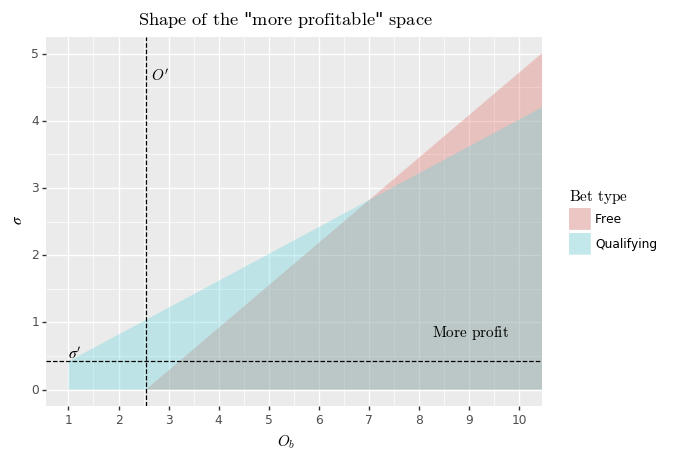
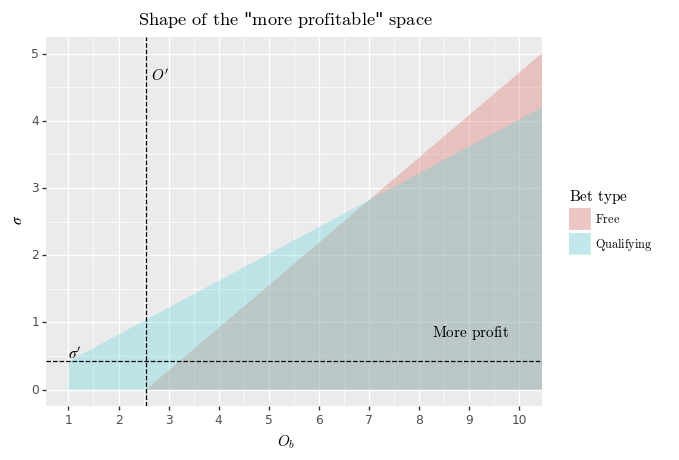
editing

diff --git a/images/matched-betting/plots.py b/images/matched-betting/plots.py
@@ -226,12 +226,14 @@ def main():
         + gg.geom_area(gg.aes(fill='profit'), alpha=0.3)
         + gg.geom_vline(xintercept=Opr, linetype='dashed')
         + gg.geom_hline(yintercept=σpr, linetype='dashed')
+
         # text alignment can't be specified in an aes
         + gg.geom_text(lab_aes, data=labels.ix[:0], ha='left', va='top')
         + gg.geom_text(lab_aes, data=labels.ix[1:1], ha='left', va='bottom')
         + gg.geom_text(lab_aes, data=labels.ix[2:], ha='right', va='bottom')
+
         + gg.scale_fill_discrete(name=mathrm('Bet type'),
-                                 labels=['Free', 'Qualifying'])
+                                 labels=[mathrm('Free'), mathrm('Qualifying')])
         + limits((1, 10), (0, 5))
         + gg.ggtitle('%s "%s" %s' % (mathrm('Shape of the'),
                                      mathrm('more profitable'),

diff --git a/drafts/matched-betting.md b/drafts/matched-betting.md
@@ -10,13 +10,13 @@ This post isn't advice about how to get into matched betting. That market is pro
 
 Instead, I want to go into the math behind it, in more depth than I've seen in other places. None of this math is complicated, but some of it is useful, and I haven't seen anyone do it before. (I even deliberately went looking.)
 
-**A simple example**
+### A simple example
 
 (If you've seen one example of matched betting, you've seen them all, and you can skip this particular one.)
 
 You have a $£10$ free bet at a bookmaker. You find a football game, say Manchester Utd versus Liverpool, that you want to bet on. The bookmaker offers odds of $4$ on Liverpool, and you bet your $£10$ on them.
 
-A note on odds: the usual convention in gambling seems to be to use decimal odds. Odds of $x$ mean that your potential winnings are $x-1$ times your stake. Thus, odds of $4$ mean a bet of $£10$ has the potential to pay out $£30$. If you're used to odds notated $a:b$ or (equivalently) $a/b$, then the decimal odds are given by $a/b + 1$.
+(A note on odds: the usual convention in gambling seems to be to use decimal odds. Odds of $x$ mean that your potential winnings are $x-1$ times your stake. Thus, odds of $4$ mean a bet of $£10$ has the potential to pay out $£30$. If you're used to odds notated $a:b$ or (equivalently) $a/b$, then the decimal odds are given by $a/b + 1$.)
 
 So if Liverpool wins, you'll earn $£30$; if they lose or draw, you lose nothing. You then look up the same match at a betting exchange. An exchange allows you to take both sides of a bet, which a bookmaker won't. The exchange offers odds of $4.3$ to lay Liverpool; this means that you win your bet in the exchange only if Liverpool *doesn't* win. You accept a stake of $£6.98$, which means your own stake is $£23.03$.
 
@@ -28,11 +28,11 @@ Before bookmakers will give you a free bet, you'll usually have to place a bet w
 
 This has been a very brief introduction to matched betting. Now, into the math. I'm going to be focusing on two kinds of bet: qualifying bets, which are usually known as just bets, and free bets, where you don't lose anything if your back bet loses. I'm also going to ignore rounding; let's just pretend that the sterling is infinitely divisible.
 
-**Some definitions**
+### Some definitions
 
 We can think of a paired bet as having six parameters, $(O_b, O_l, S_b, S_l, C_b, C_l)$. These are three parameters for each of a pair of back and lay bets.
 
-$O_b, O_l$ are the odds on the back and lay bets. It's typically safe to assume $O_b < O_l$; otherwise, modulo commission, you could make a profit even on your qualifying bets. Also, because we're using decimal odds, we have $O_b, O_l ≥ 1$ (anything less than $1$ corresponds to a probability below $0$.)
+$O_b, O_l$ are the odds on the back and lay bets. It's typically safe to assume $O_b < O_l$; otherwise, modulo commission, you could make a profit even on your qualifying bets. Also, because we're using decimal odds, we have $O_b, O_l ≥ 1$ (anything less than $1$ corresponds to a probability below $0$).
 
 $S_b, S_l ≥ 0$ are the stakes on the back and lay bets. Note that $S_l$ is the stake offered by the *other party* to your lay bet; it's (roughly) the amount you stand to win on that bet, not the amount you stand to lose. This may seem strange, but it's the convention used.
 
@@ -59,7 +59,7 @@ And now we can say that a matched bet is simply a paired bet, where your profit 
 
 Incidentally, the six prameters are over-determined. Most commonly we want to learn $S_l$ given the other five; but knowing any five of them will fix the value of the sixth.
 
-**Optimal lay stake**
+### Optimal lay stake
 
 The first question we'll ask is, given $O_\*$, $C_\*$ and $S_b$, what must $S_l$ be to make our bet a matched bet? Or in other words, what $S_l$ should we choose to eliminate all risk?
 
@@ -81,7 +81,7 @@ and for a free bet,
 
 A thing to note here is that $O_l$ and $C_l$ only appear in the term $O_l - C_l$. In other words, the effect of lay commission is to decrease the effective lay odds in the most natural way. It would be nice if this happened in other contexts too, but unfortunately I haven't come across it. The $O_l - C_l$ term is common, but it's usually accompanied by another $O_l$ and/or $C_l$ somewhere else in the expression.
 
-**Profit**
+### Profit
 
 Next, we'll want to know how much profit we make. This is given by $R_{lb} + R_{ll}$, where we calculate $R_{ll}$ using the lay stake we just found. But since both of these terms are proportional to $S_b$, we'll find it more convenient to think in terms of profit *per unit of back stake*,
 
@@ -122,7 +122,7 @@ We can also look at $P_f - P_q$, the difference in profit between a qualifying b
 
 The more $O_l$ grows, the worse a qualifier becomes relative to a free bet. This is another suggestion that you should be looking at different sorts of bets for your qualifiers and your free bets.
 
-**Liability**
+### Liability
 
 One more thing is important when making a matched bet: lay liability. This is how much you stand to lose on the exchange where you make your lay bet. It's only important for boring real-world reasons like liquidity and exogenous risk. You need to have this much money in your account at the exchange, which means you need to be able to spare it from your bank account for a week or so. Low-liability bets are also safer if something goes wrong, which makes them a good choice for early dabblers in matched betting.
 
@@ -138,7 +138,7 @@ for a free bet.
 
 Unlike profit, liability increases with both $O_b$ and $O_l$. But it increases arbitrarily with $O_b$, and asymtotically with $O_l$; it's bounded above by roughly $S_b O_b$ for a qualifying bet and $S_b (O_b - 1)$ for a free bet.
 
-**Improving on a free bet**
+### Improving on a free bet
 
 Matched bet calculators aren't hard to find, and what I've given so far is nothing that they can't do for you. But they don't tell you everything you might want to know. Let's look at a bet, and see how we might find a better bet. Since the two types have different behaviours, we'll treat them separately.
 
@@ -206,7 +206,7 @@ These two equations can be used to find $O_b$ in terms of $O_l$ or $σ$, and vic
 
 Looking more closely at the second one, notice that $C^+$ is the upper bound on profit. So the term $C^+ - P_f$ can be thought of as how much profit is being left on the table, compared to what you could hypothetically get if odds of $∞$ were a thing. The less profit you leave behind, the less $σ$ has to change to compensate for a given change in $O_b$. In other words, when profit is high, the level curve on the graph of $P_f(O_b, σ)$ becomes shallower, as we saw above.
 
-**Improving on a qualifying bet**
+### Improving on a qualifying bet
 
 For a qualifying bet, we can't quite do the same thing. If we temporarily assume $C_b = 0$, then the term we want to maximise is
 
@@ -263,7 +263,7 @@ I'm afraid I can offer no particular interpretation of what $Λ$ means, though I
 
 (It turns out that $P_q + 1 ≥ C^+$ precisely when $σ ≤ C_l + C_b/(1 - C_b)$. I noted above that if $C_b = 0$, the possible values of $P_q + 1$ depend on $\mathrm{sgn}(σ-C_l)$. This is the same result, generalized to all values of $C_b$.)
 
-**A digression on odds**
+### A digression on odds
 
 Note that in general, you can expect spread to be lower at lower odds. That's because odds are more sensitive to evidence when they're high than when they're low.
 
@@ -273,7 +273,7 @@ So the difference between the odds $1.25$ and $1.2$ is, in a very important sens
 
 The takeaway from this is that for qualifying bets, you should be looking at bets with low odds. High odds have better returns, but the effect of low spread is much more significant, and low spread comes with low odds.
 
-**The effects of commission**
+### The effects of commission
 
 I want to explore one more question: how does profit depend on commission? For this, we'll keep $C_b$ and $O_b$ fixed, and explore how $O_l$ and $C_l$ affect profit.
 
